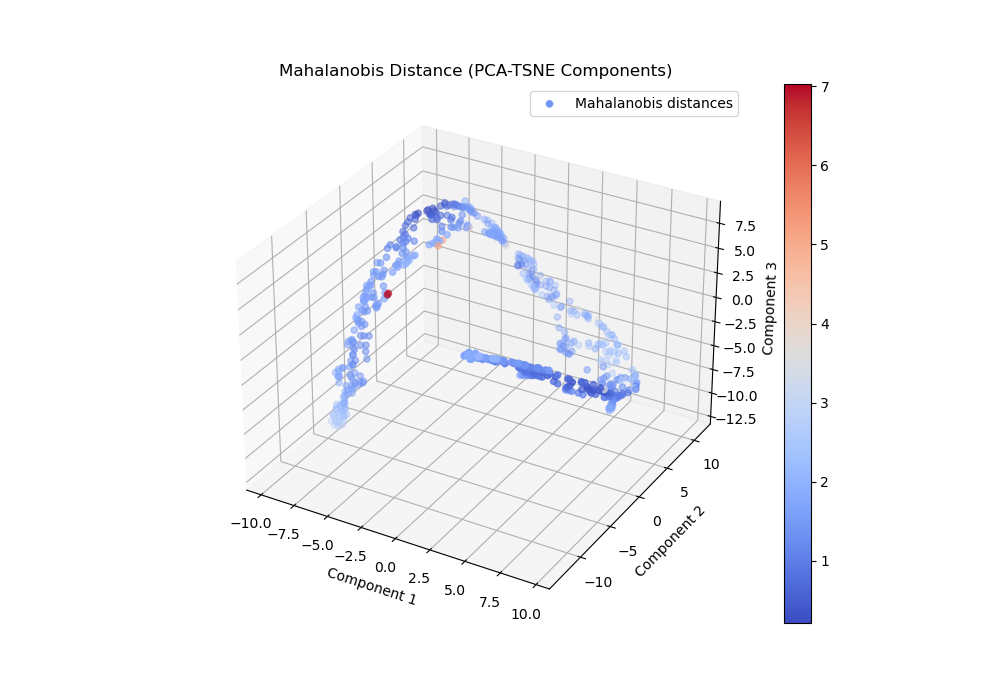
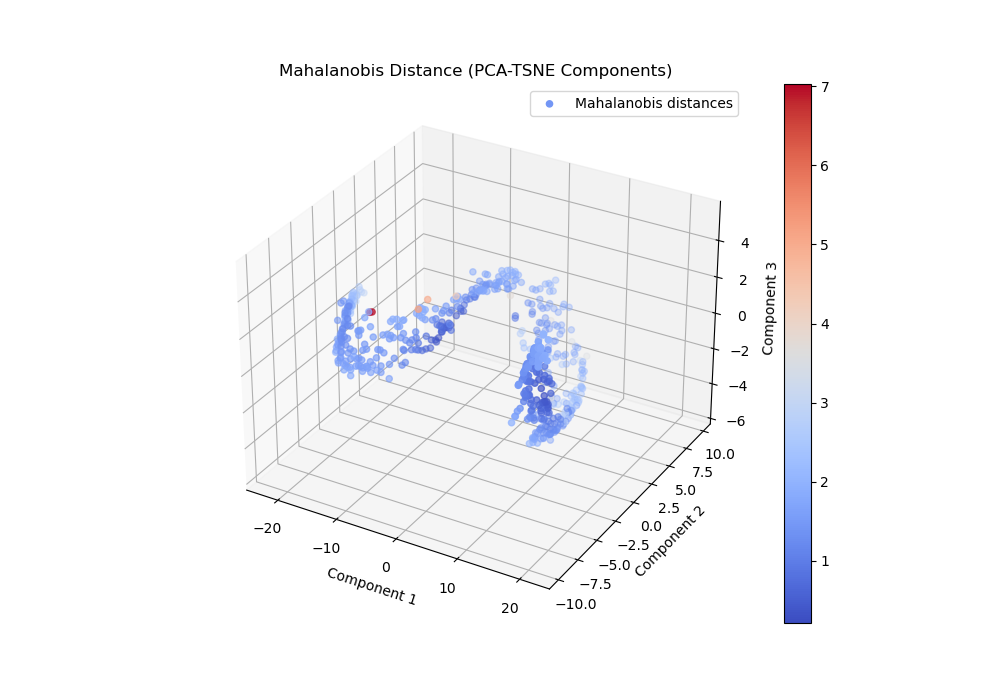
fixed typo with pca and tsne steps

diff --git a/outlier_detection.py b/outlier_detection.py
@@ -92,7 +92,7 @@ print(data.shape)
 # -----------------------------------------------------------------------------------------------
 # Dimensionality reduction: Calculate PCA and TSNE Components
 # -----------------------------------------------------------------------------------------------
-data_pca = tsne_data(data)
+data_pca = pca_data(data)
 data_tsne = tsne_data(data_pca)
 
 # -----------------------------------------------------------------------------------------------
